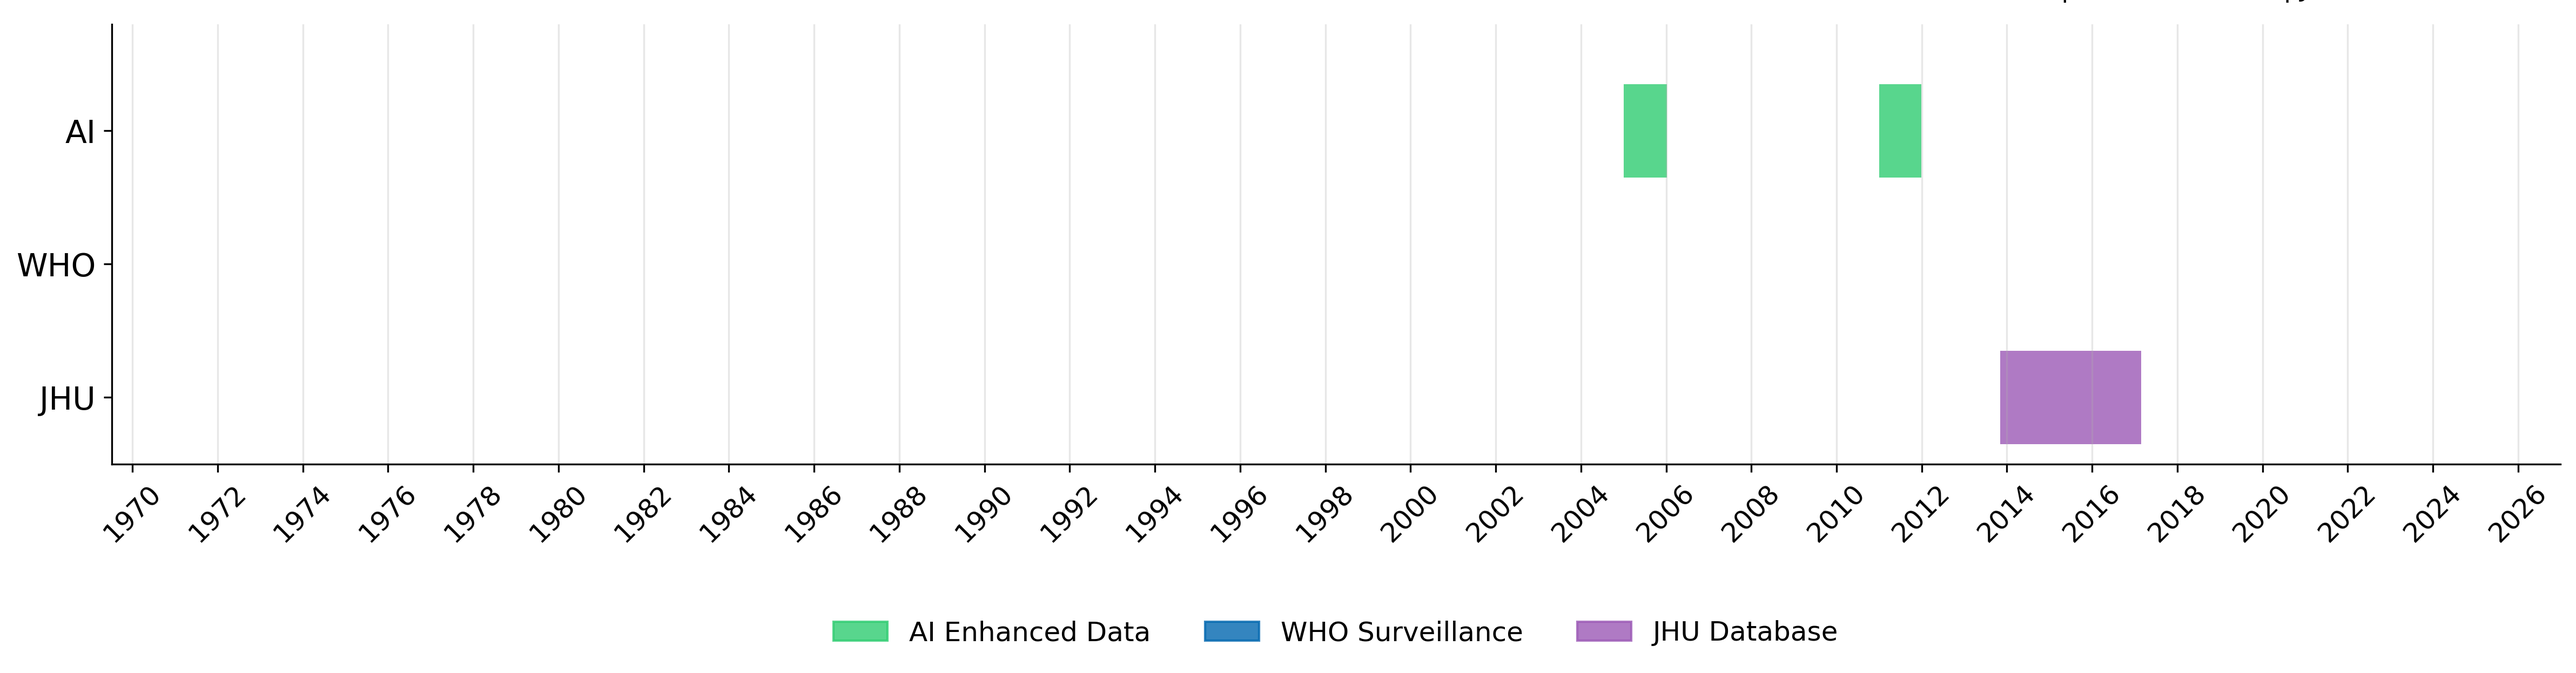
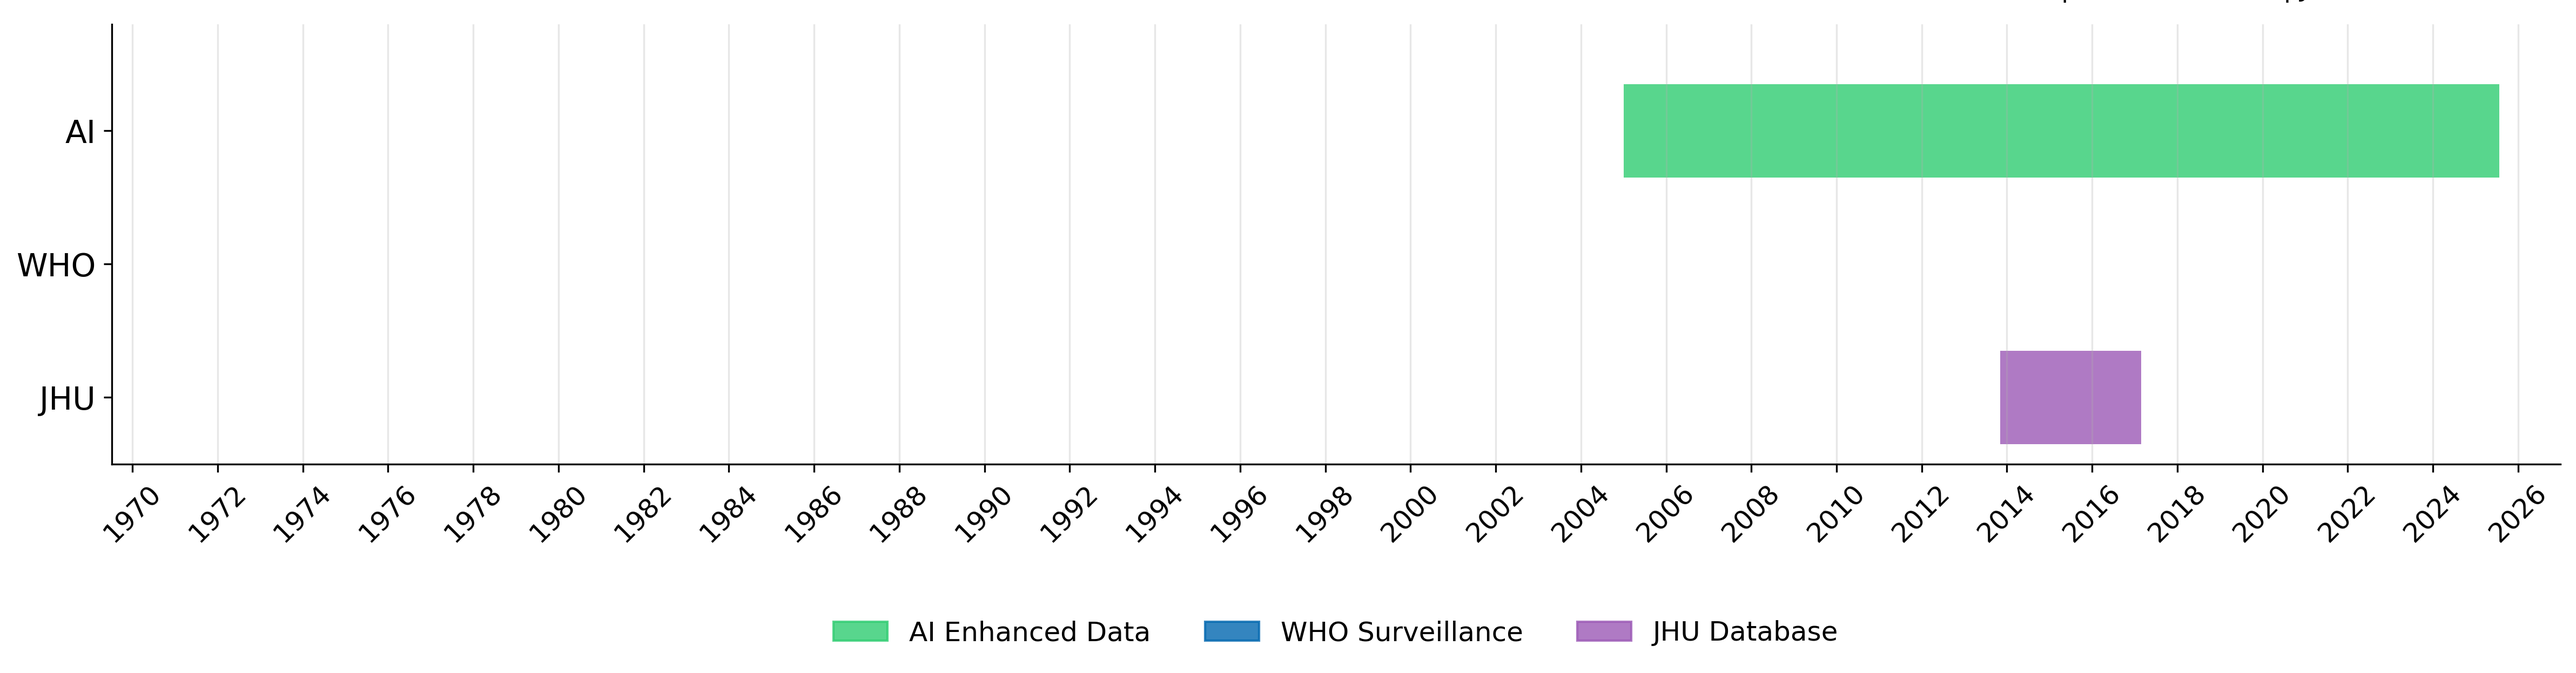
Auto-update dashboard data - 2025-07-24 13:10:19 - Generated with Claude Code

Changed region(s): [[0.6249, 0.1219, 0.9685, 0.2743]]

diff --git a/dashboard/dashboard.html b/dashboard/dashboard.html
@@ -1954,15 +1954,15 @@
                 "country": "Mauritania",
                 "iso": "MRT",
                 "status": "PENDING",
-                "datetime": "2025-07-24 12:58:21",
-                "sources": 3,
-                "observations": 3,
-                "date_range": "2005-2011",
+                "datetime": "2025-07-24 13:09:30",
+                "sources": 6,
+                "observations": 7,
+                "date_range": "2005-2025",
                 "priority": "HIGH",
                 "execution_time": 0,
                 "queries": 0,
                 "yield_pct": 0.0,
-                "notes": "Agent 3 completed; 3 data observations | Manual: Agent 1 completed; 3 data observations"
+                "notes": "Agent 4 completed; 7 data observations"
         },
         {
                 "country": "Malawi",
@@ -1976,7 +1976,7 @@
                 "execution_time": 0,
                 "queries": 0,
                 "yield_pct": 0.0,
-                "notes": "All agents executed; 36 data observations | Manual: No activity detected"
+                "notes": "All agents executed; 36 data observations"
         },
         {
                 "country": "Namibia",
@@ -3147,7 +3147,7 @@ Kenya,KEN,1339,125,320
 Liberia,LBR,262,0,431
 Mali,MLI,1639,0,378
 Mozambique,MOZ,1261,125,287
-Mauritania,MRT,105,0,171
+Mauritania,MRT,1072,0,171
 Malawi,MWI,2345,118,158
 Namibia,NAM,0,0,0
 Niger,NER,0,0,399
